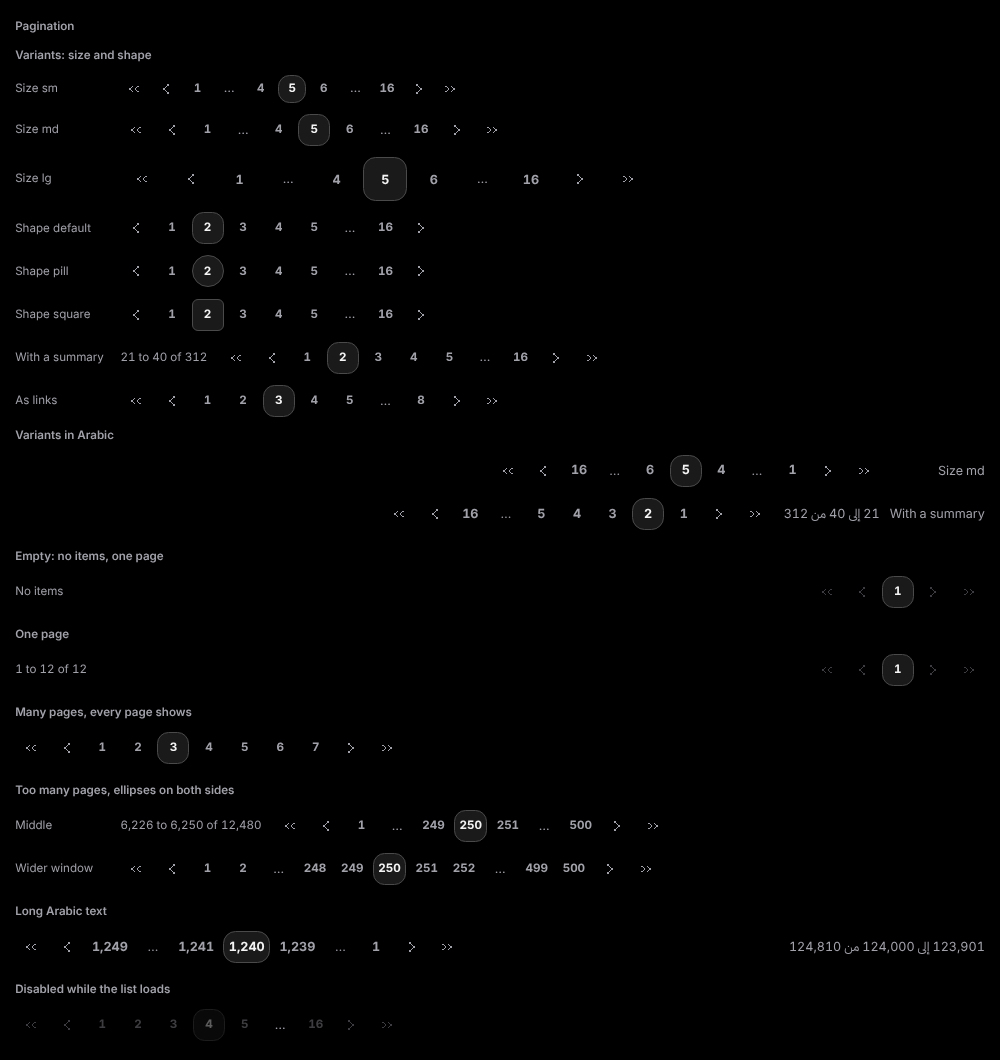
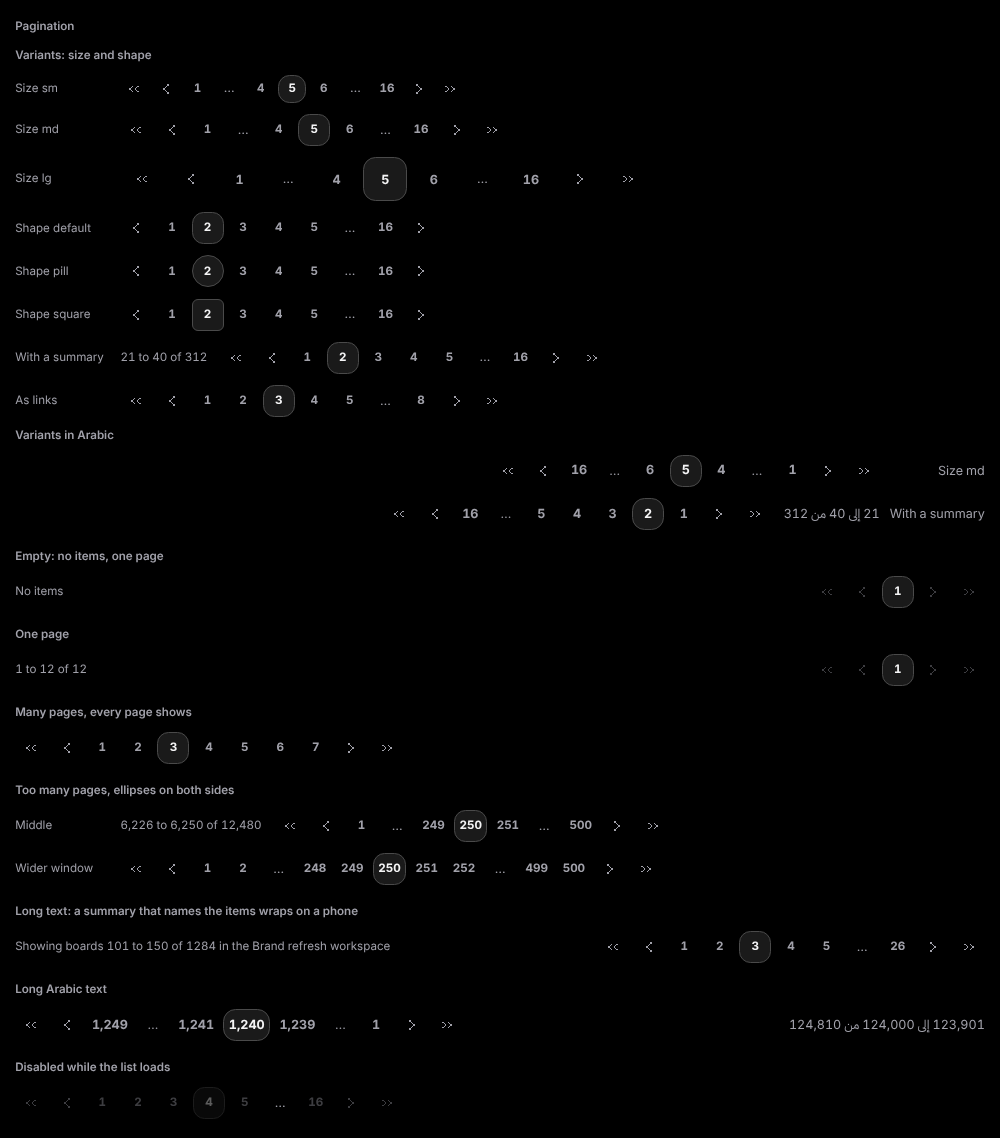
wo-1.7.6: pagination review fixes
Claude-Session: https://claude.ai/code/session_01ErLBsaPqGo8ipZihqhLTXM

diff --git a/packages/css/src/components/Pagination.css b/packages/css/src/components/Pagination.css
@@ -5,10 +5,11 @@
  * Private properties on the root (recipes override these):
  *
  *   --_pagination-gap                    the space between controls
- *   --_pagination-control                the control height, for the ellipsis box
- *   --_pagination-summary-fg             the summary text color
- *   --_pagination-active-border          the border that marks the current page
- *   --_pagination-active-fg              the current page number color
+ *   --_pagination-height                 the control height, for the ellipsis box
+ *   --_pagination-fg                     the summary and ellipsis color
+ *   --_pagination-bg-active, -bg-active-hover            the current page fill
+ *   --_pagination-fg-active                              the current page number color
+ *   --_pagination-border-color-active                    the border that marks the current page
  *
  * Every control is a system Button or IconButton (data-part first, previous,
  * page, next, last). This file restyles them only through Button's private
@@ -19,10 +20,12 @@
 @layer ds.base {
   [data-ds='pagination'] {
     --_pagination-gap: var(--ds-space-3xs);
-    --_pagination-control: var(--ds-size-control-md);
-    --_pagination-summary-fg: var(--ds-color-text-muted);
-    --_pagination-active-border: var(--ds-color-border-strong);
-    --_pagination-active-fg: var(--ds-color-text-bright);
+    --_pagination-height: var(--ds-size-control-md);
+    --_pagination-fg: var(--ds-color-text-muted);
+    --_pagination-bg-active: var(--ds-color-bg-overlay-10);
+    --_pagination-bg-active-hover: var(--ds-color-bg-overlay-20);
+    --_pagination-fg-active: var(--ds-color-text-bright);
+    --_pagination-border-color-active: var(--ds-color-border-strong);
 
     display: flex;
     flex-wrap: wrap;
@@ -33,11 +36,11 @@
   }
 
   [data-ds='pagination'][data-size='sm'] {
-    --_pagination-control: var(--ds-size-control-sm);
+    --_pagination-height: var(--ds-size-control-sm);
   }
 
   [data-ds='pagination'][data-size='lg'] {
-    --_pagination-control: var(--ds-size-control-lg);
+    --_pagination-height: var(--ds-size-control-lg);
     --_pagination-gap: var(--ds-space-2xs);
   }
 
@@ -45,7 +48,7 @@
   [data-ds='pagination'] > [data-part='summary'] {
     margin-inline-end: auto;
     padding-inline-end: var(--ds-space-m);
-    color: var(--_pagination-summary-fg);
+    color: var(--_pagination-fg);
     font-size: var(--ds-font-size-s);
     line-height: var(--ds-font-leading-tight);
     white-space: nowrap;
@@ -62,32 +65,52 @@
   }
 
   [data-ds='pagination'] > [data-part='page'][data-active] {
-    --_button-bg: var(--ds-color-bg-overlay-10);
-    --_button-bg-hover: var(--ds-color-bg-overlay-20);
-    --_button-fg: var(--_pagination-active-fg);
-    --_button-fg-hover: var(--_pagination-active-fg);
-    --_button-border-color: var(--_pagination-active-border);
-    --_button-border-color-hover: var(--_pagination-active-border);
+    --_button-bg: var(--_pagination-bg-active);
+    --_button-bg-hover: var(--_pagination-bg-active-hover);
+    --_button-fg: var(--_pagination-fg-active);
+    --_button-fg-hover: var(--_pagination-fg-active);
+    --_button-border-color: var(--_pagination-border-color-active);
+    --_button-border-color-hover: var(--_pagination-border-color-active);
   }
 
   [data-ds='pagination'] > [data-part='ellipsis'] {
     display: inline-flex;
     align-items: center;
     justify-content: center;
-    min-inline-size: var(--_pagination-control);
-    block-size: var(--_pagination-control);
-    color: var(--_pagination-summary-fg);
+    min-inline-size: var(--_pagination-height);
+    block-size: var(--_pagination-height);
+    color: var(--_pagination-fg);
     user-select: none;
   }
 
-  /* Compact form: the ends and the current page only, the summary on its own line above. */
+  /* The compact ellipsis shows only in the compact form. */
+  [data-ds='pagination'] > [data-part='ellipsis'][data-compact] {
+    display: none;
+  }
+
+  /*
+   * Compact form: the ends, the current page and the last page (so the row
+   * still says how many there are), the summary on its own line above and
+   * free to wrap. The ellipsis before the last page stays when pages are
+   * hidden between them.
+   */
   @media (width < 30rem) { /* breakpoint.phone */
-    [data-ds='pagination'] > :is([data-part='page']:not([data-active]), [data-part='ellipsis']) {
+    [data-ds='pagination'] > [data-part='page']:not([data-active], :nth-last-child(1 of [data-part='page'])) {
       display: none;
+    }
+
+    [data-ds='pagination'] > [data-part='ellipsis']:not([data-compact]) {
+      display: none;
+    }
+
+    [data-ds='pagination'] > [data-part='ellipsis'][data-compact] {
+      display: inline-flex;
     }
 
     [data-ds='pagination'] > [data-part='summary'] {
       flex-basis: 100%;
+      padding-inline-end: 0;
+      white-space: normal;
     }
   }
 

diff --git a/packages/react/src/components/Pagination/Pagination.test.tsx b/packages/react/src/components/Pagination/Pagination.test.tsx
@@ -26,8 +26,12 @@ describe('Pagination', () => {
     expect(el.getAttribute('aria-label')).toBe('Pagination');
     expect(el.getAttribute('data-size')).toBe('md');
     expect(el.getAttribute('data-shape')).toBe('default');
-    expect(parts(el)).toEqual(['first', 'previous', 'page', 'ellipsis', 'page', 'page', 'page', 'ellipsis', 'page', 'next', 'last']);
-    expect(pages(el)).toEqual(['1', '...', '4', '5', '6', '...', '16']);
+    expect(parts(el)).toEqual(['first', 'previous', 'page', 'ellipsis', 'page', 'page', 'page', 'ellipsis', 'ellipsis', 'page', 'next', 'last']);
+    expect(pages(el)).toEqual(['1', '...', '4', '5', '6', '...', '...', '16']);
+    // The second ellipsis before the last page is the compact one, drawn only on phones.
+    const compact = el.querySelectorAll('[data-part="ellipsis"][data-compact]');
+    expect(compact).toHaveLength(1);
+    expect(compact[0]?.nextElementSibling?.textContent).toBe('16');
   });
 
   it('marks the current page with aria-current, data-active and a page label', () => {
@@ -115,6 +119,32 @@ describe('Pagination', () => {
     expect(screen.getByRole('button', { name: 'صفحة 624' })).not.toBeNull();
   });
 
+  it('treats a page count of 0 or NaN as one page with inert ends', () => {
+    const onPageChange = vi.fn();
+    for (const count of [0, Number.NaN]) {
+      const { unmount } = render(<Pagination pageCount={count} onPageChange={onPageChange} />);
+      expect(screen.getByRole('button', { name: 'Page 1' }).getAttribute('aria-current')).toBe('page');
+      for (const name of ['First page', 'Previous page', 'Next page', 'Last page']) {
+        const el = screen.getByRole('button', { name });
+        expect(el.getAttribute('aria-disabled')).toBe('true');
+        fireEvent.click(el);
+      }
+      unmount();
+    }
+    expect(onPageChange).not.toHaveBeenCalled();
+  });
+
+  it('in link mode leaves a modifier click and a middle click to the browser', () => {
+    const onPageChange = vi.fn();
+    render(<Pagination defaultPage={1} pageCount={3} getHref={(p) => `?page=${p}`} onPageChange={onPageChange} />);
+    const link = screen.getByRole('link', { name: 'Page 2' });
+    fireEvent.click(link, { ctrlKey: true });
+    fireEvent.click(link, { metaKey: true });
+    fireEvent.click(link, { button: 1 });
+    expect(onPageChange).not.toHaveBeenCalled();
+    expect(screen.getByRole('link', { name: 'Page 1' }).getAttribute('aria-current')).toBe('page');
+  });
+
   it('says No items for an empty list', () => {
     const { container } = render(<Pagination itemCount={0} />);
     expect(container.querySelector('[data-part="summary"]')?.textContent).toBe('No items');
@@ -144,8 +174,8 @@ describe('Pagination', () => {
   it('size, shape, showEnds and disabled reach the controls', () => {
     const { container } = render(<Pagination size="lg" shape="pill" showEnds={false} disabled pageCount={3} />);
     const el = root(container);
-    expect(parts(el)).toEqual(['previous', 'page', 'page', 'page', 'next']);
-    for (const child of Array.from(el.children)) {
+    expect(parts(el)).toEqual(['previous', 'page', 'page', 'ellipsis', 'page', 'next']);
+    for (const child of Array.from(el.children).filter((c) => c.getAttribute('data-part') !== 'ellipsis')) {
       expect(child.getAttribute('data-size')).toBe('lg');
       expect(child.getAttribute('data-shape')).toBe('pill');
       expect(child.getAttribute('aria-disabled')).toBe('true');
@@ -166,7 +196,7 @@ describe('Pagination', () => {
 
   it('renders every demo case', () => {
     const { container } = render(<PaginationDemo />);
-    for (const id of ['variants', 'empty', 'one', 'many', 'too-many', 'long-arabic', 'disabled']) {
+    for (const id of ['variants', 'empty', 'one', 'many', 'too-many', 'long-text', 'long-arabic', 'disabled']) {
       expect(container.querySelector(`[data-demo-case="${id}"]`)).not.toBeNull();
     }
     const variants = container.querySelector('[data-demo-case="variants"]');

diff --git a/packages/react/src/components/Pagination/Pagination.tsx b/packages/react/src/components/Pagination/Pagination.tsx
@@ -25,7 +25,8 @@
 //   data-disabled, the Button rule), so focus is not lost on the last page.
 // - Numbers use Western digits in both languages, grouped with a comma.
 // - Under breakpoint.phone the compact form keeps the ends and the current
-//   page only (CSS), and the summary wraps above.
+//   page and the last page (CSS), with a compact-only ellipsis (data-compact)
+//   between them when pages are hidden, and the summary wraps above.
 import { useMemo, type HTMLAttributes, type MouseEvent, type ReactElement, type Ref } from 'react';
 import type { IconName } from '@the-system/icons/react';
 import { clampPage, isEllipsis, itemRange, pageCount as countPages, pageRange, type Shape, type Size } from '@the-system/shared';
@@ -59,7 +60,7 @@ const words = {
     last: 'الصفحة الأخيرة',
     page: (p: number) => `صفحة ${n(p)}`,
     summary: (s: number, e: number, t: number) => `${n(s)} إلى ${n(e)} من ${n(t)}`,
-    empty: 'لا توجد عناصر',
+    empty: 'ما فيه عناصر',
   },
 } as const;
 
@@ -120,12 +121,16 @@ export function Pagination({
 }: PaginationProps) {
   const { lang } = useTheme();
   const t = words[lang === 'ar' ? 'ar' : 'en'];
-  const total = pageCount ?? (itemCount !== undefined ? countPages(itemCount, pageSize) : 1);
+  const raw = pageCount ?? (itemCount !== undefined ? countPages(itemCount, pageSize) : 1);
+  // Never under one page: a count of 0 or NaN still shows page 1 with inert ends.
+  const total = Number.isFinite(raw) ? Math.max(1, Math.floor(raw)) : 1;
   const [rawPage, setPage] = useControllable(pageProp, defaultPage, onPageChange);
   const page = clampPage(rawPage, total);
   const range = useMemo(() => pageRange(page, total, siblings, boundaries), [page, total, siblings, boundaries]);
 
   const go = (to: number) => (event: MouseEvent<HTMLElement>) => {
+    // A link opened in a new tab or window leaves this page where it is.
+    if (getHref && (event.button !== 0 || event.metaKey || event.ctrlKey || event.shiftKey || event.altKey)) return;
     if (!getHref) event.preventDefault();
     if (to !== page) setPage(to);
   };
@@ -177,8 +182,16 @@ export function Pagination({
         }
         const active = item === page;
         const text = n(item);
+        // The compact form hides every page but the current and the last; this marks the pages between them.
+        const compactGap =
+          item === total && total - page > 1 ? (
+            <span key="compact-gap" data-part="ellipsis" data-compact="" aria-hidden="true">
+              …
+            </span>
+          ) : null;
         const link = linkTo(item, text);
-        return (
+        return [
+          compactGap,
           <Button
             key={item}
             data-part="page"
@@ -193,8 +206,8 @@ export function Pagination({
             asChild={link !== undefined}
           >
             {link ?? text}
-          </Button>
-        );
+          </Button>,
+        ];
       })}
       {end('next', 'chevron-forward', Math.min(total, page + 1))}
       {showEnds && end('last', 'chevrons-forward', total)}

diff --git a/packages/shared/src/pagination.ts b/packages/shared/src/pagination.ts
@@ -43,8 +43,8 @@ export function pageRange(current: number, total: number, siblings = 1, boundari
   const count = Math.floor(total);
   if (!Number.isFinite(count) || count < 1) return [];
   const page = clampPage(current, count);
-  const sib = Math.max(0, Math.floor(siblings));
-  const bound = Math.max(0, Math.floor(boundaries));
+  const sib = Number.isFinite(siblings) ? Math.max(0, Math.floor(siblings)) : 1;
+  const bound = Number.isFinite(boundaries) ? Math.max(0, Math.floor(boundaries)) : 1;
 
   // Short enough to show every page: the boundaries, the siblings, the current page and two slots for ellipses.
   if (count <= 2 * bound + 2 * sib + 3) return span(1, count);

diff --git a/packages/react/src/components/Pagination/Pagination.demo.tsx b/packages/react/src/components/Pagination/Pagination.demo.tsx
@@ -57,6 +57,15 @@ export default function PaginationDemo() {
         </DemoRow>
       </DemoCase>
 
+      <DemoCase id="long-text" title="Long text: a summary that names the items wraps on a phone">
+        <Pagination
+          defaultPage={3}
+          itemCount={1284}
+          pageSize={50}
+          formatSummary={(s, e, t) => `Showing boards ${s} to ${e} of ${t} in the Brand refresh workspace`}
+        />
+      </DemoCase>
+
       <DemoCase id="long-arabic" title="Long Arabic text" lang="ar">
         <Pagination defaultPage={1240} itemCount={124810} pageSize={100} />
       </DemoCase>

diff --git a/packages/shared/src/pagination.test.ts b/packages/shared/src/pagination.test.ts
@@ -41,6 +41,10 @@ describe('pageRange', () => {
     expect(pageRange(10, 20, 0, 0)).toEqual(['ellipsis-start', 10, 'ellipsis-end']);
   });
 
+  it('reads NaN siblings and boundaries as 1', () => {
+    expect(pageRange(10, 20, Number.NaN, Number.NaN)).toEqual(pageRange(10, 20));
+  });
+
   it('clamps the current page', () => {
     expect(pageRange(99, 20)).toEqual(pageRange(20, 20));
     expect(pageRange(-3, 20)).toEqual(pageRange(1, 20));
